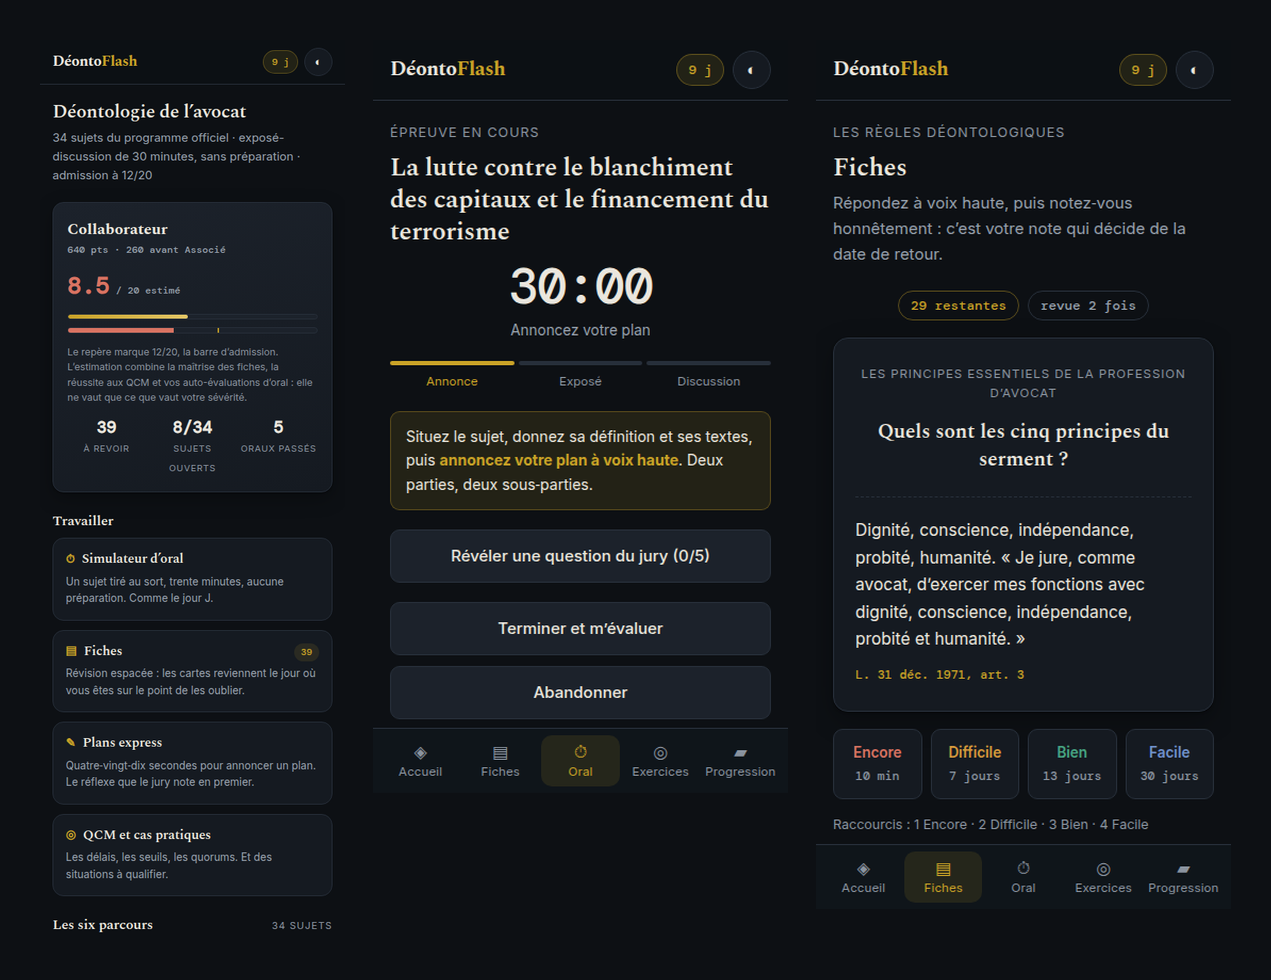
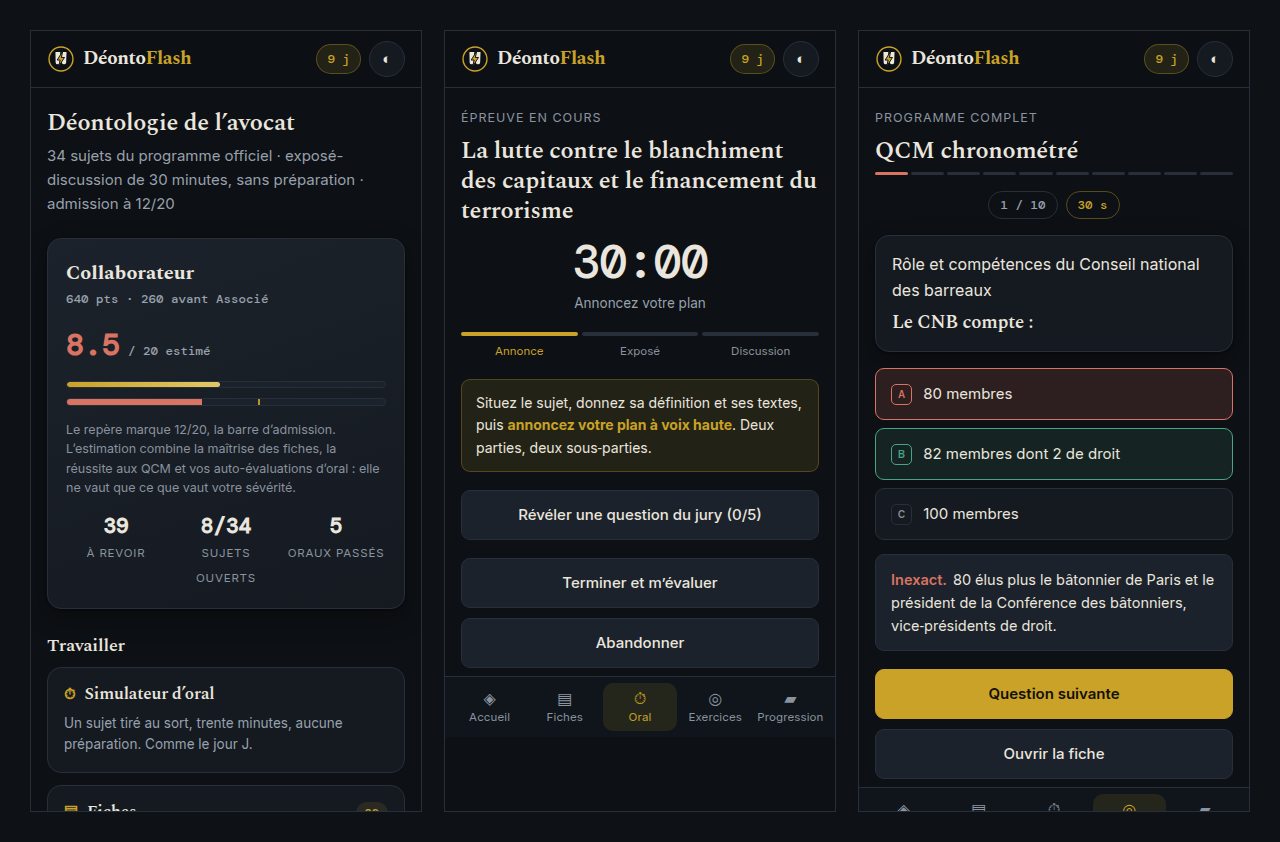
docs: the mark, the rewards, the two new scripts
Claude-Session: https://claude.ai/code/session_01CZLjVosQ8x9KQLk7Lr8PMW

diff --git a/js/vue-progression.js b/js/vue-progression.js
@@ -34,7 +34,7 @@ export function vueProgression() {
         'div',
         { class: 'chiffres' },
         h('div', { class: 'chiffre' }, h('b', { text: pct(globale) }), h('span', { text: 'maîtrise fiches' })),
-        h('div', { class: 'chiffre' }, h('b', { text: taux === null ? '—' : pct(taux) }), h('span', { text: 'réussite QCM' })),
+        h('div', { class: 'chiffre' }, h('b', { text: taux === null ? '–' : pct(taux) }), h('span', { text: 'réussite QCM' })),
         h('div', { class: 'chiffre' }, h('b', { text: String(etat.oraux.length) }), h('span', { text: 'oraux' }))
       ),
       h('p', { class: 'avertissement', text: 'Pondération : 50 % la maîtrise des fiches, 20 % la réussite aux QCM, 30 % la moyenne de vos cinq derniers oraux. Les critères d’oral sont auto‑évalués : cette note vaut ce que vaut votre sévérité.' })

diff --git a/404.html b/404.html
@@ -3,7 +3,7 @@
 <head>
 <meta charset="UTF-8">
 <meta name="viewport" content="width=device-width, initial-scale=1.0">
-<title>Page introuvable — Déonto Flash</title>
+<title>Page introuvable · Déonto Flash</title>
 <meta name="robots" content="noindex">
 <link rel="stylesheet" href="/deonto-flash/css/fonts.css">
 <link rel="stylesheet" href="/deonto-flash/css/app.css">

diff --git a/js/version.js b/js/version.js
@@ -1,1 +1,1 @@
-export const APP_VERSION = '2026.08.28.1';
+export const APP_VERSION = '2026.08.28.2';

diff --git a/README.md b/README.md
@@ -9,7 +9,7 @@
 [![Privacy](https://img.shields.io/badge/vie_privée-rien_n'est_envoyé-0E1116?style=for-the-badge)](https://github.com/fschmutz/deonto-flash/wiki/Vie-privee)
 [![Wiki](https://img.shields.io/badge/wiki-comment_ça_marche-47A583?style=for-the-badge)](https://github.com/fschmutz/deonto-flash/wiki)
 
-<img src="assets/apercu-accueil.png" alt="Déonto Flash — tableau de bord : rang, note blanche estimée, six parcours" width="880">
+<img src="assets/apercu-accueil.png" alt="Déonto Flash · tableau de bord : rang, note blanche estimée, six parcours" width="880">
 
 **[Ouvrir l’application →](https://fschmutz.github.io/deonto-flash/)**
 
@@ -54,7 +54,7 @@ Ils suivent l’ordre et les intitulés du programme officiel.
 
 Un sceau s’acquiert lorsque 80 % des fiches d’un parcours ont atteint trois semaines de
 stabilité mémorielle. Six sceaux, un rang qui progresse d’Élève‑avocat à Doyen de l’ordre,
-une série de jours consécutifs, et une **note blanche** estimée sur 20 — pondérée à 50 % par
+une série de jours consécutifs, et une **note blanche** estimée sur 20 : pondérée à 50 % par
 la maîtrise des fiches, 20 % par la réussite aux QCM et 30 % par la moyenne des cinq
 derniers oraux.
 
@@ -101,7 +101,23 @@ Le contrôle visuel parcourt les vingt‑et‑un écrans dans trois formats et d
 chacun, et échoue sur toute erreur JavaScript, requête en échec, débordement horizontal,
 texte tronqué, cible tactile trop petite ou contraste sous le seuil WCAG AA.
 
-Si la page en ligne paraît figée sur une ancienne version, un bandeau propose de recharger —
+```bash
+python3 scripts/parcours-apprenant.py
+```
+
+Le parcours apprenant joue l’application comme un candidat : une série de QCM menée jusqu’au
+bout, une session de fiches notée sur les quatre boutons, un oral du tirage à la note, un plan
+express rédigé puis comparé. Il capture chaque moment d’apprentissage et écrit le texte réellement
+affiché dans `parcours/textes.json`, pour que le contenu se relise au lieu de se mesurer.
+
+```bash
+python3 scripts/icones.py
+```
+
+La marque est dessinée une seule fois, dans `js/ui.js`. Ce script en relit les tracés et
+régénère les icônes et la carte sociale, pour qu’elles ne puissent pas diverger du logo.
+
+Si la page en ligne paraît figée sur une ancienne version, un bandeau propose de recharger : 
 le service worker sert sinon la version en cache.
 
 ## Licence

diff --git a/wiki/Le-programme.md b/wiki/Le-programme.md
@@ -2,19 +2,25 @@
 
 Les six parcours reprennent l’ordre et les intitulés du programme officiel de l’épreuve.
 
-## 01 — Les règles déontologiques · sceau : Le Serment
+## 01. Les règles déontologiques
+
+*Sceau : Le Serment*
 
 Les principes essentiels · Le secret professionnel · Le respect du contradictoire · La
 confraternité · Les conflits d’intérêts · La succession d’avocats dans un même dossier · La
 lutte contre le blanchiment des capitaux et le financement du terrorisme · Le code de
 déontologie des avocats européens
 
-## 02 — Organisation professionnelle · sceau : Le Bâton
+## 02. Organisation professionnelle
+
+*Sceau : Le Bâton*
 
 Rôle et compétences du conseil de l’ordre et du bâtonnier · Rôle et compétences du Conseil
 national des barreaux
 
-## 03 — Exercice professionnel · sceau : La Robe
+## 03. Exercice professionnel
+
+*Sceau : La Robe*
 
 Le domicile professionnel · Les bureaux secondaires · Le champ d’activité professionnelle ·
 Les incompatibilités · La publicité personnelle · La formation continue · La spécialisation ·
@@ -22,17 +28,23 @@ Le règlement des différends entre avocats · Les infractions disciplinaires ·
 disciplinaire · L’omission, la suppléance et l’administration provisoire · La liquidation
 judiciaire
 
-## 04 — Les modes et structures juridiques d’exercice · sceau : L’Épitoge
+## 04. Les modes et structures juridiques d’exercice
+
+*Sceau : L’Épitoge*
 
 L’avocat individuel · Statut de l’avocat collaborateur libéral ou salarié · L’avocat associé ·
 Les structures juridiques d’exercice · L’interprofessionnalité
 
-## 05 — Les honoraires, la comptabilité et la fiscalité · sceau : Le Rabat
+## 05. Les honoraires, la comptabilité et la fiscalité
+
+*Sceau : Le Rabat*
 
 Les honoraires · La comptabilité · La fiscalité de l’avocat · Les maniements de fonds et le
 fonctionnement de la CARPA
 
-## 06 — La responsabilité civile professionnelle · sceau : La Balance
+## 06. La responsabilité civile professionnelle
+
+*Sceau : La Balance*
 
 L’assurance de responsabilité civile professionnelle · Les réclamations · Les mesures
 préventives

diff --git a/wiki/Home.md b/wiki/Home.md
@@ -9,12 +9,12 @@ programme publié. L’admission est prononcée à partir de **12/20**.
 
 ## Par où commencer
 
-1. **[Les quatre modes](Modes)** — ce que chacun travaille, et quand l’utiliser.
-2. **[Le programme](Le-programme)** — les six parcours et les 34 sujets.
-3. **[La révision espacée](Revision-espacee)** — pourquoi les fiches reviennent quand elles reviennent.
-4. **[La note blanche](Note-blanche)** — comment elle est calculée, et ce qu’elle ne vaut pas.
-5. **[Sources et limites](Sources)** — d’où vient le contenu, et ce qu’il faut re‑vérifier.
-6. **[Vie privée](Vie-privee)** — ce qui est stocké, où, et par qui.
+1. **[Les quatre modes](Modes)** : ce que chacun travaille, et quand l’utiliser.
+2. **[Le programme](Le-programme)** : les six parcours et les 34 sujets.
+3. **[La révision espacée](Revision-espacee)** : pourquoi les fiches reviennent quand elles reviennent.
+4. **[La note blanche](Note-blanche)** : comment elle est calculée, et ce qu’elle ne vaut pas.
+5. **[Sources et limites](Sources)** : d’où vient le contenu, et ce qu’il faut re‑vérifier.
+6. **[Vie privée](Vie-privee)** : ce qui est stocké, où, et par qui.
 
 ## En une phrase
 

diff --git a/wiki/Modes.md b/wiki/Modes.md
@@ -2,7 +2,7 @@
 
 ## Simulateur d’oral
 
-Le format réel. Un sujet est tiré au sort — aucune préparation, comme le jour J — puis trente
+Le format réel. Un sujet est tiré au sort (aucune préparation, comme le jour J) puis trente
 minutes s’écoulent en trois phases :
 
 | Phase | Durée | Ce qu’on attend de vous |
@@ -37,8 +37,8 @@ premières minutes.
 ## QCM et cas pratiques
 
 Dix questions, trente secondes chacune, sur ce qui ne s’improvise pas : délais, seuils,
-quorums, majorités. Les options sont mélangées à chaque affichage — la position d’une bonne
+quorums, majorités. Les options sont mélangées à chaque affichage : la position d’une bonne
 réponse n’est jamais un indice.
 
-Les cas pratiques présentent une situation à qualifier. Formulez l’analyse à voix haute —
-textes applicables, qualification, conséquence, conduite à tenir — avant d’ouvrir la réponse.
+Les cas pratiques présentent une situation à qualifier. Formulez l’analyse à voix haute : 
+textes applicables, qualification, conséquence, conduite à tenir : avant d’ouvrir la réponse.

diff --git a/CHANGELOG.md b/CHANGELOG.md
@@ -2,7 +2,23 @@
 
 Le format suit [Keep a Changelog](https://keepachangelog.com/fr/1.1.0/).
 
-## 2026.08.28.1 — première version
+## 2026.08.28.2
+
+### Ajouté
+- Une marque : les deux pans du rabat de l’avocat, traversés d’un éclair, dessinée en SVG
+  et déclinée en icônes.
+- Des récompenses visibles. Une série qui se termine annonce les points gagnés, un rang
+  franchi, un sceau obtenu, et fait jaillir des éclats d’or. L’animation est supprimée
+  lorsque le système demande de réduire les animations.
+- L’écran de résultat des QCM liste les questions manquées et renvoie vers la fiche du
+  sujet concerné.
+
+### Modifié
+- Le premier lancement ne montre plus une note de 0,0/20 en rouge et six jauges vides,
+  mais le point de départ et deux façons de commencer.
+- Toute la ponctuation suit désormais l’usage français : plus aucun tiret cadratin.
+
+## 2026.08.28.1 · première version
 
 ### Ajouté
 - Les 34 sujets du programme officiel, répartis en six parcours, avec pour chacun une

diff --git a/wiki/Revision-espacee.md b/wiki/Revision-espacee.md
@@ -25,11 +25,11 @@ que la stabilité est faible. La fiche revient le jour où elle retombe à **90 
 
 ## Vos quatre notes
 
-- **Encore** — vous ne saviez pas. La stabilité baisse et la fiche revient dans dix minutes,
+- **Encore** : vous ne saviez pas. La stabilité baisse et la fiche revient dans dix minutes,
   en fin de session.
-- **Difficile** — retrouvé, mais péniblement. L’intervalle progresse peu.
-- **Bien** — la réponse est venue. L’intervalle progresse normalement.
-- **Facile** — immédiat. L’intervalle fait un bond.
+- **Difficile** : retrouvé, mais péniblement. L’intervalle progresse peu.
+- **Bien** : la réponse est venue. L’intervalle progresse normalement.
+- **Facile** : immédiat. L’intervalle fait un bond.
 
 L’intervalle prévu s’affiche sous chaque bouton avant que vous ne choisissiez.
 

diff --git a/wiki/Note-blanche.md b/wiki/Note-blanche.md
@@ -1,7 +1,7 @@
 # La note blanche
 
 Une estimation sur 20, affichée sur le tableau de bord et dans la vue Progression, avec un
-repère à 12 — la barre d’admission.
+repère à 12 : la barre d’admission.
 
 ## Le calcul
 
@@ -18,7 +18,7 @@ aucun oral, la note repose sur les fiches et les QCM.
 
 **Elle ne prédit pas votre note.** Deux raisons.
 
-D’abord, la composante la plus lourde à l’oral — trente pour cent — est **auto‑évaluée**. Une
+D’abord, la composante la plus lourde à l’oral (trente pour cent) est **auto‑évaluée**. Une
 notation complaisante produit une note flatteuse et rigoureusement inutile. Notez‑vous comme
 vous noteriez un candidat que vous ne connaissez pas.
 

diff --git a/wiki/Vie-privee.md b/wiki/Vie-privee.md
@@ -10,7 +10,7 @@ sécurité du contenu est `default-src 'self'` : le navigateur refuse tout charg
 autre domaine.
 
 Le seul échange réseau est le téléchargement de l’application elle‑même depuis GitHub Pages,
-au premier chargement — comme n’importe quelle page web. Ensuite, le service worker la sert
+au premier chargement : comme n’importe quelle page web. Ensuite, le service worker la sert
 depuis le cache et l’application fonctionne hors ligne.
 
 ## Ce qui est stocké, et où

diff --git a/CONTRIBUTING.md b/CONTRIBUTING.md
@@ -7,7 +7,7 @@ C’est la contribution la plus utile. Ouvrez une issue en indiquant :
 1. le sujet et la fiche concernés ;
 2. ce qui est écrit ;
 3. ce qui devrait l’être ;
-4. **le texte applicable**, avec son article — c’est la seule chose qui permet de trancher.
+4. **le texte applicable**, avec son article : c’est la seule chose qui permet de trancher.
 
 Le droit évolue : une correction sans référence ne peut pas être intégrée.
 
